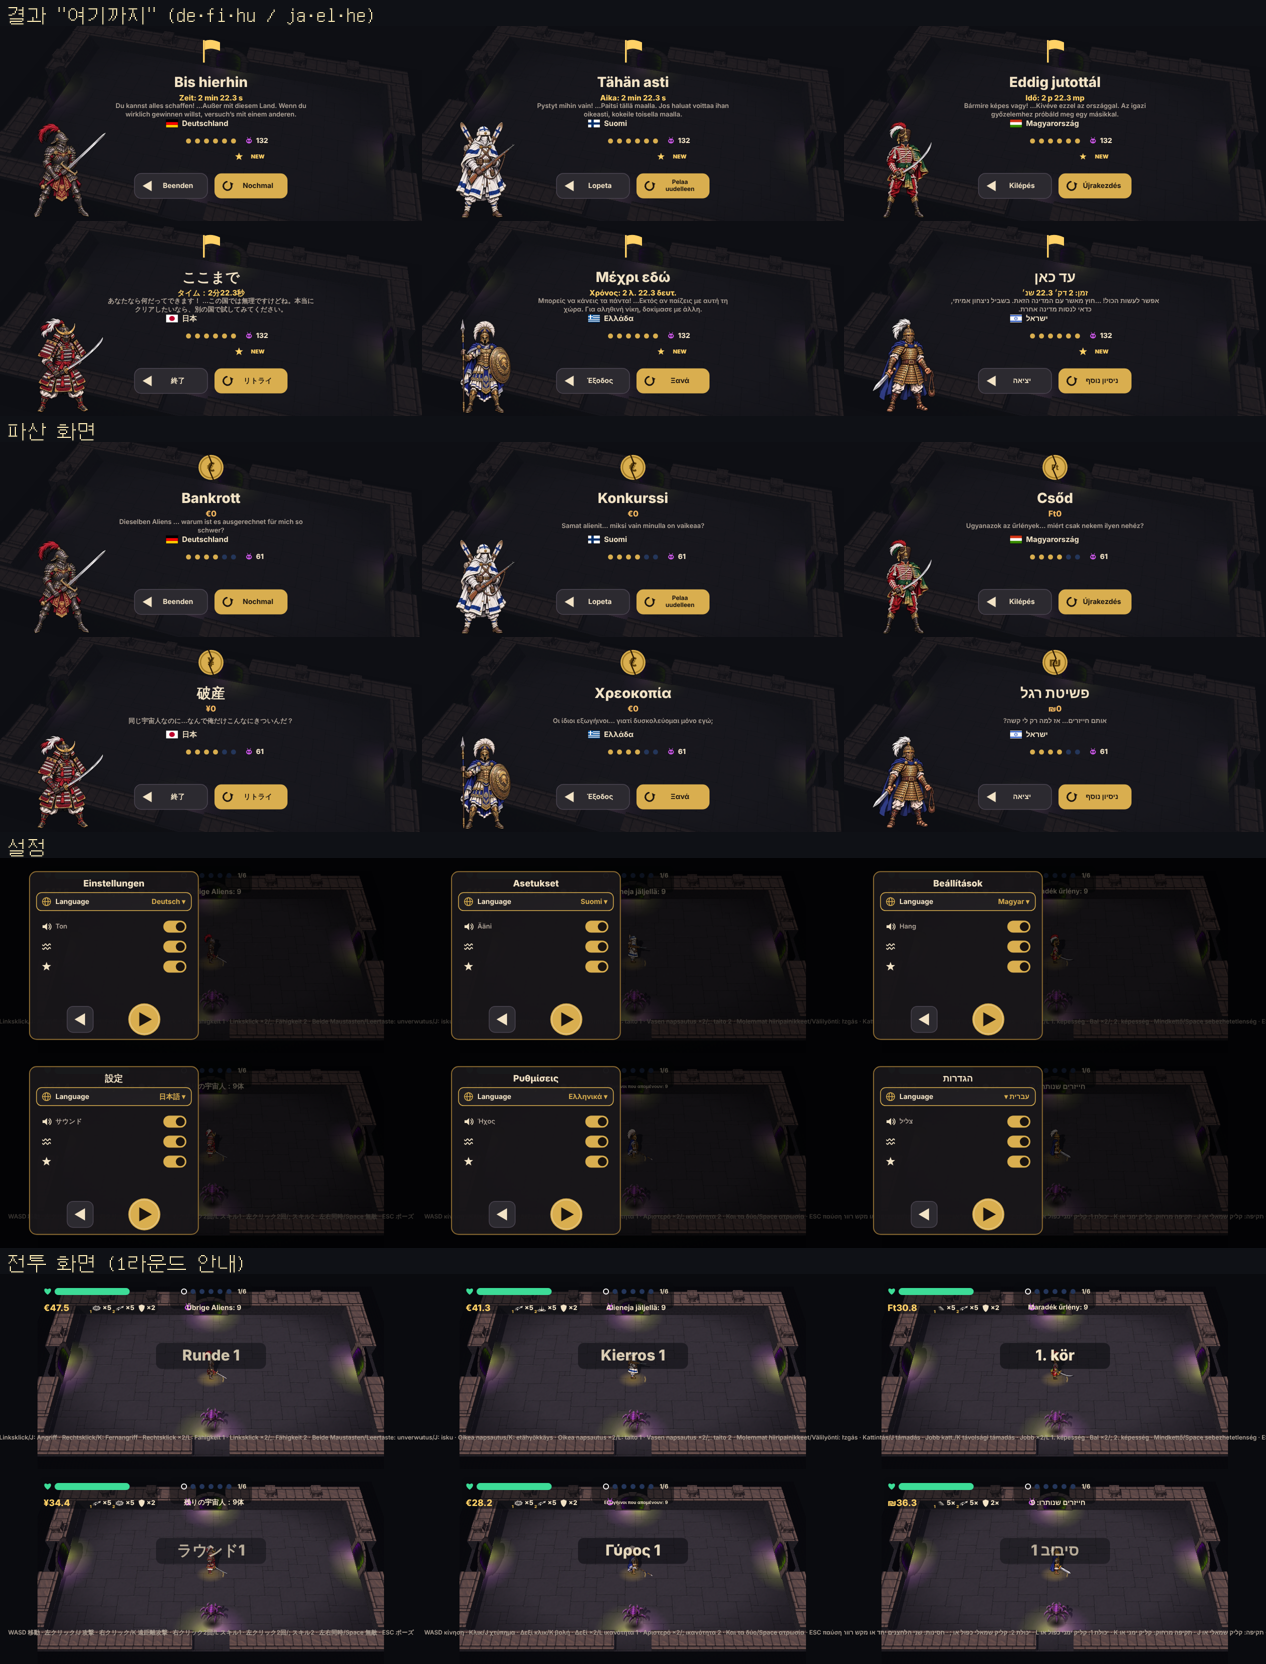
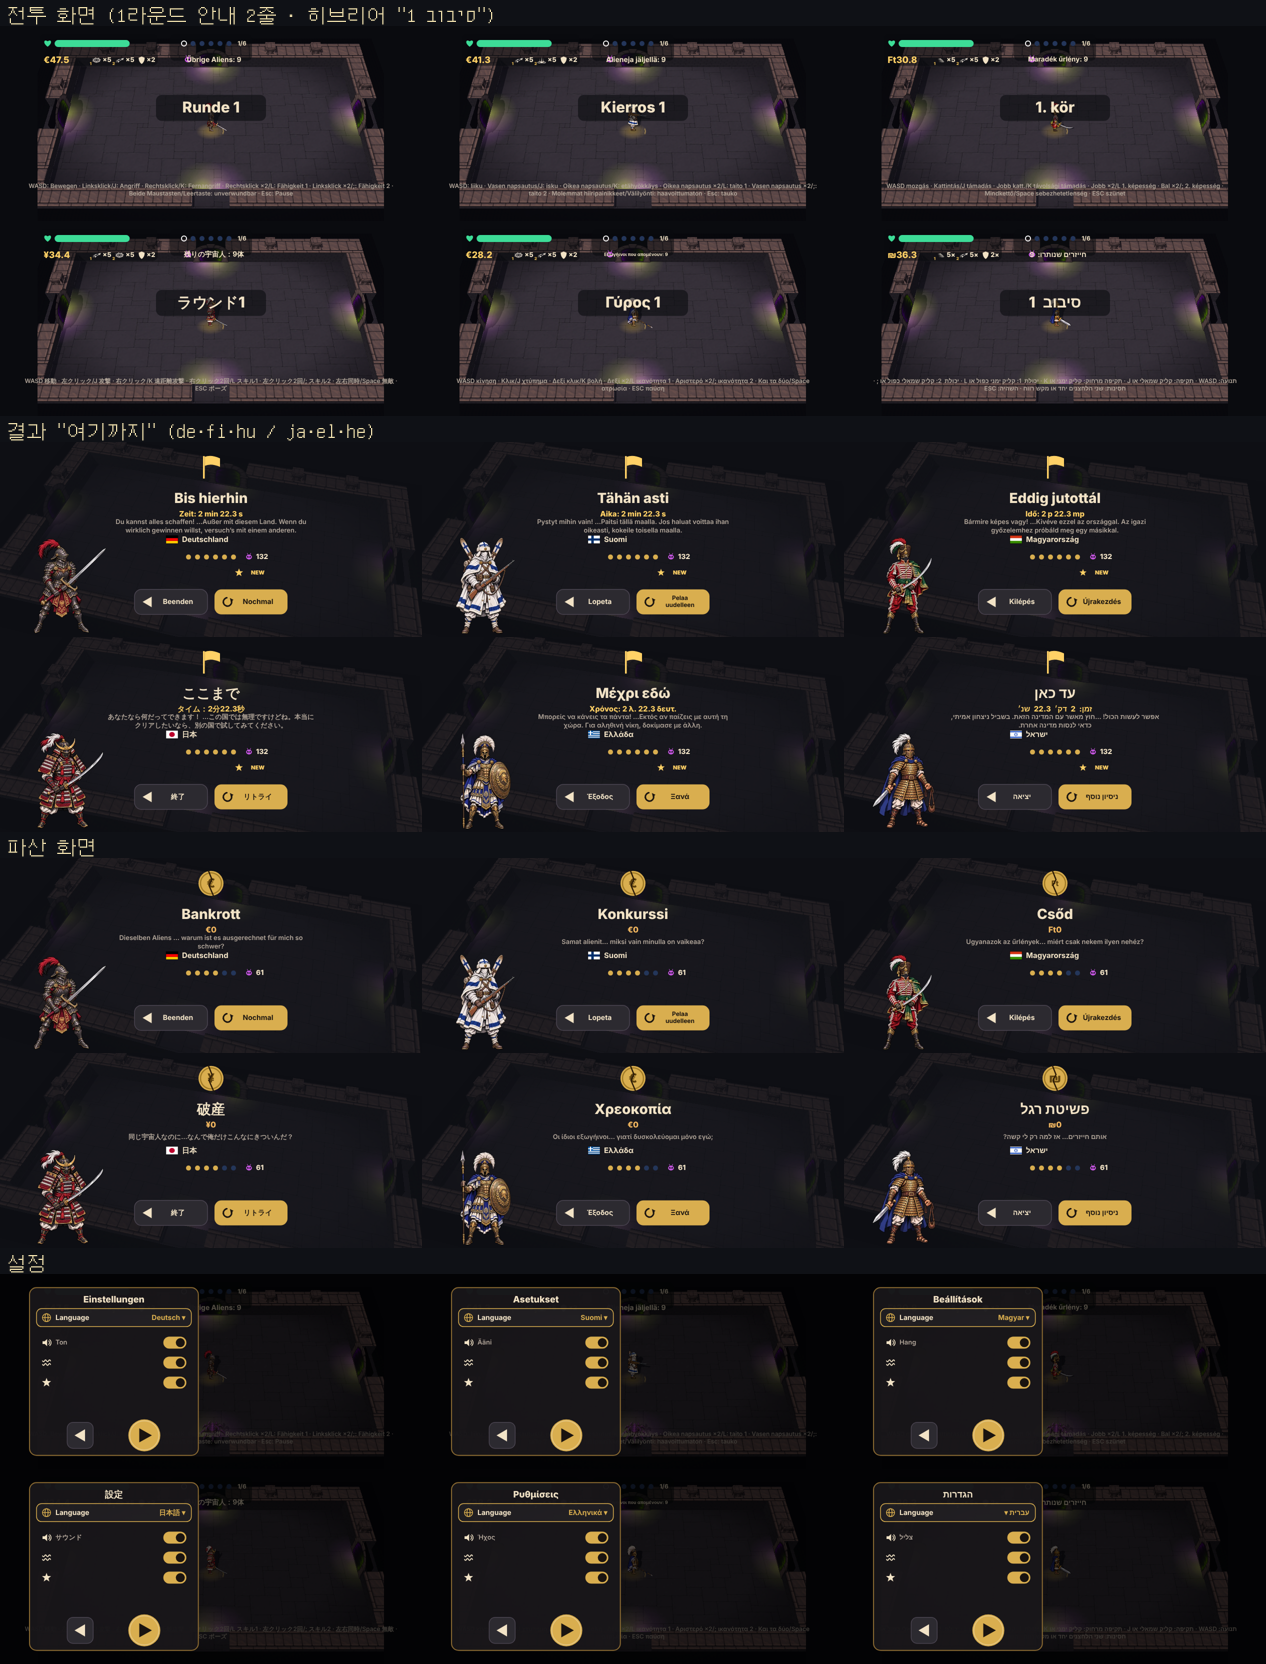
[개발팀] 언어 손질 (히브리어 띄어쓰기 · HUD 아이콘 겹침) · 활 몸 앞 20px
Claude-Session: https://claude.ai/code/session_013M9CK2UFP2bu5qUnTrTZoi

diff --git a/src/game.js b/src/game.js
@@ -2162,7 +2162,7 @@
     let pull = 0, sx = 1, wob = 1, snapT = null;
     if (m && !m.rel) { const k = Math.min(1, m.t / m.T); pull = 10 * (1 - Math.pow(1 - k, 2)); sx = 1 - .1 * k; }
     else if (m && m.rel) { const e = m.t - m.T; pull = e < .03 ? 10 * (1 - e / .03) : 0; snapT = e; wob = e < .08 ? 1.08 - .08 * e / .08 : 1; }
-    const cx = h.x + ca * 14, cy = h.y - 32 + sa * 14 * .6;
+    const cx = h.x + ca * 20, cy = h.y - 32 + sa * 20 * .6;   // 몸 앞 20px (디자인 "시위가 몸·얼굴을 가로지르지 않게")
     return { ang, ca, sa, sc, cx, cy, pull, sx, wob, snapT, u: { x: -sa, y: ca }, v: { x: -ca, y: -sa } };
   }
   const bowPt = (f, U, V) => ({ x: f.cx + f.u.x * U * f.wob + f.v.x * V, y: f.cy + f.u.y * U * f.wob + f.v.y * V });
@@ -2387,8 +2387,8 @@
       if (i + 1 < r.round) UI.circ(dx, y, 5, COL.gold); else if (i + 1 === r.round) UI.circ(dx, y, 5, null, '#FFFFFF', 2); else UI.circ(dx, y, 5, COL.empty);
     }
     UI.txt(`${r.round}/6`, cx + 62, VH * .09, 12, COL.fg, 'center', 700);
-    UI.I.alien(cx - 46, VH * .17 + 1, 18, '#CA57E5');
-    UI.txt(t_('ui.04', { n: Math.max(0, remaining()) }), cx + 6, VH * .17 + 1, 14, COL.fg, 'center', 700, 120);
+    { const lt = t_('ui.04', { n: Math.max(0, remaining()) }); UI.x.font = '700 14px system-ui,-apple-system,"Segoe UI",Roboto,"Noto Sans",sans-serif'; const tw = Math.min(140, UI.x.measureText(lt).width);   // 글자 폭을 재서 아이콘을 글자 왼쪽 끝에 붙여요 (긴 언어에서 겹치지 않게)
+      UI.I.alien(cx + 6 - tw / 2 - 13, VH * .17 + 1, 18, '#CA57E5'); UI.txt(lt, cx + 6, VH * .17 + 1, 14, COL.fg, 'center', 700, 140); }
     if (G.scene === 'play' && G.touchUI) { const SA = safeArea(); UI.btnSub('pause', Math.min(VW * .93, VW - SA.r - 26), Math.max(VH * .1, SA.t + 26), 44, 'pause'); }   // 폰만 (PC는 ESC) — 마우스로 치다가 잘못 눌리지 않게
   }
 

diff --git a/teams/3-개발/test/langs.js b/teams/3-개발/test/langs.js
@@ -6,7 +6,7 @@ const { chromium } = require('playwright');
     await p.goto('http://localhost:8080/web/'); await p.waitForFunction(() => window.G && G.scene === 'title');
     await p.keyboard.press('Enter'); await p.waitForTimeout(300); await p.evaluate(ci => { G.sel = ci; }, ci); await p.waitForTimeout(200);
     const lang = await p.evaluate(() => I18N.lang); await p.screenshot({ path: `${S}/shots/lang-${ci}-select.png` });
-    await p.keyboard.press('Enter'); await p.waitForFunction(() => G.scene === 'play'); await p.waitForTimeout(900);
+    await p.keyboard.press('Enter'); await p.waitForFunction(() => G.scene === "play"); await p.waitForTimeout(500);
     await p.screenshot({ path: `${S}/shots/lang-${ci}-play.png` });
     await p.keyboard.press('Escape'); await p.waitForTimeout(400); await p.screenshot({ path: `${S}/shots/lang-${ci}-pause.png` }); await p.keyboard.press('Escape'); await p.waitForTimeout(200);
     await p.evaluate(() => { G.result = { kind: 'far', rounds: 6, kills: 132, isNew: true, line: I18N.t('end.far.01'), t: 0, time: 142.34 }; G.scene = 'result'; }); await p.waitForTimeout(300);

diff --git a/src/i18n.js b/src/i18n.js
@@ -104,6 +104,7 @@
     t(key, vars) {
       let s = (T[this.lang] && T[this.lang][key]) ?? T.en[key] ?? key;
       if (vars) for (const k in vars) s = s.split('{' + k + '}').join(vars[k]);
+      if (this.lang === 'he') s = s.replace(/ (?=\d)|(?<=\d) /g, '\u2002');   // 히브리어 글꼴은 띄어쓰기가 아주 좁아서 숫자 옆은 넓은 띄어쓰기 (순서는 RTL이 "1 סיבוב"로 맞게 해요)
       return s;
     },
     // 나라 이름: 그 나라 말을 쓰는 중이면 그 나라 표기, 아니면 지금 언어 표기

diff --git a/teams/3-개발/작업기록.md b/teams/3-개발/작업기록.md
@@ -535,3 +535,10 @@
 - 긴 언어: UI.txt 폭 넘으면 글자 자동 축소(원래 있음) · 버튼은 2줄(원래 있음) · 1라운드 조작 안내(x.keys)가 화면 밖으로 넘쳐서 2줄 줄바꿈으로 고침
 - 일본어·그리스어·히브리어 글꼴 정상(캡처 확인)
 - 캡처 review-4/u31-langs.png (de·fi·hu·ja·el·he: 결과·파산·설정·전투) · 새 테스트 test/langs.js · 회귀 controls·esc·ads2·ending 통과
+
+### 2026-11-26 언어 손질 · 활 위치 (팀장·디자인 대조)
+- u31 '전투' 칸은 줄바꿈 고치기 전 캡처였어요 → 다시 찍음: 6개 언어 모두 조작 안내 2줄, 화면 폭 90% 안
+- 히브리어 "סיבוב 1": 순서는 RTL로 맞았고("1 סיבוב") 글꼴 띄어쓰기가 아주 좁아 붙어 보였어요 → 히브리어일 때 숫자 옆 띄어쓰기를 넓은 띄어쓰기(U+2002)로
+- 남은 외계인 HUD: 긴 언어(독일어·그리스어·히브리어)에서 글자가 외계인 아이콘과 겹쳐서 → 글자 폭을 재서 아이콘을 글자 왼쪽 끝에
+- 한국 활: 몸 앞 14 → 20px (디자인 "시위가 몸·얼굴을 가로지르지 않게"). 캡처 review-4/u32-bow20.png
+- 캡처 review-4/u31-langs.png 다시 만듦 · 회귀 controls·esc·ads2 통과
